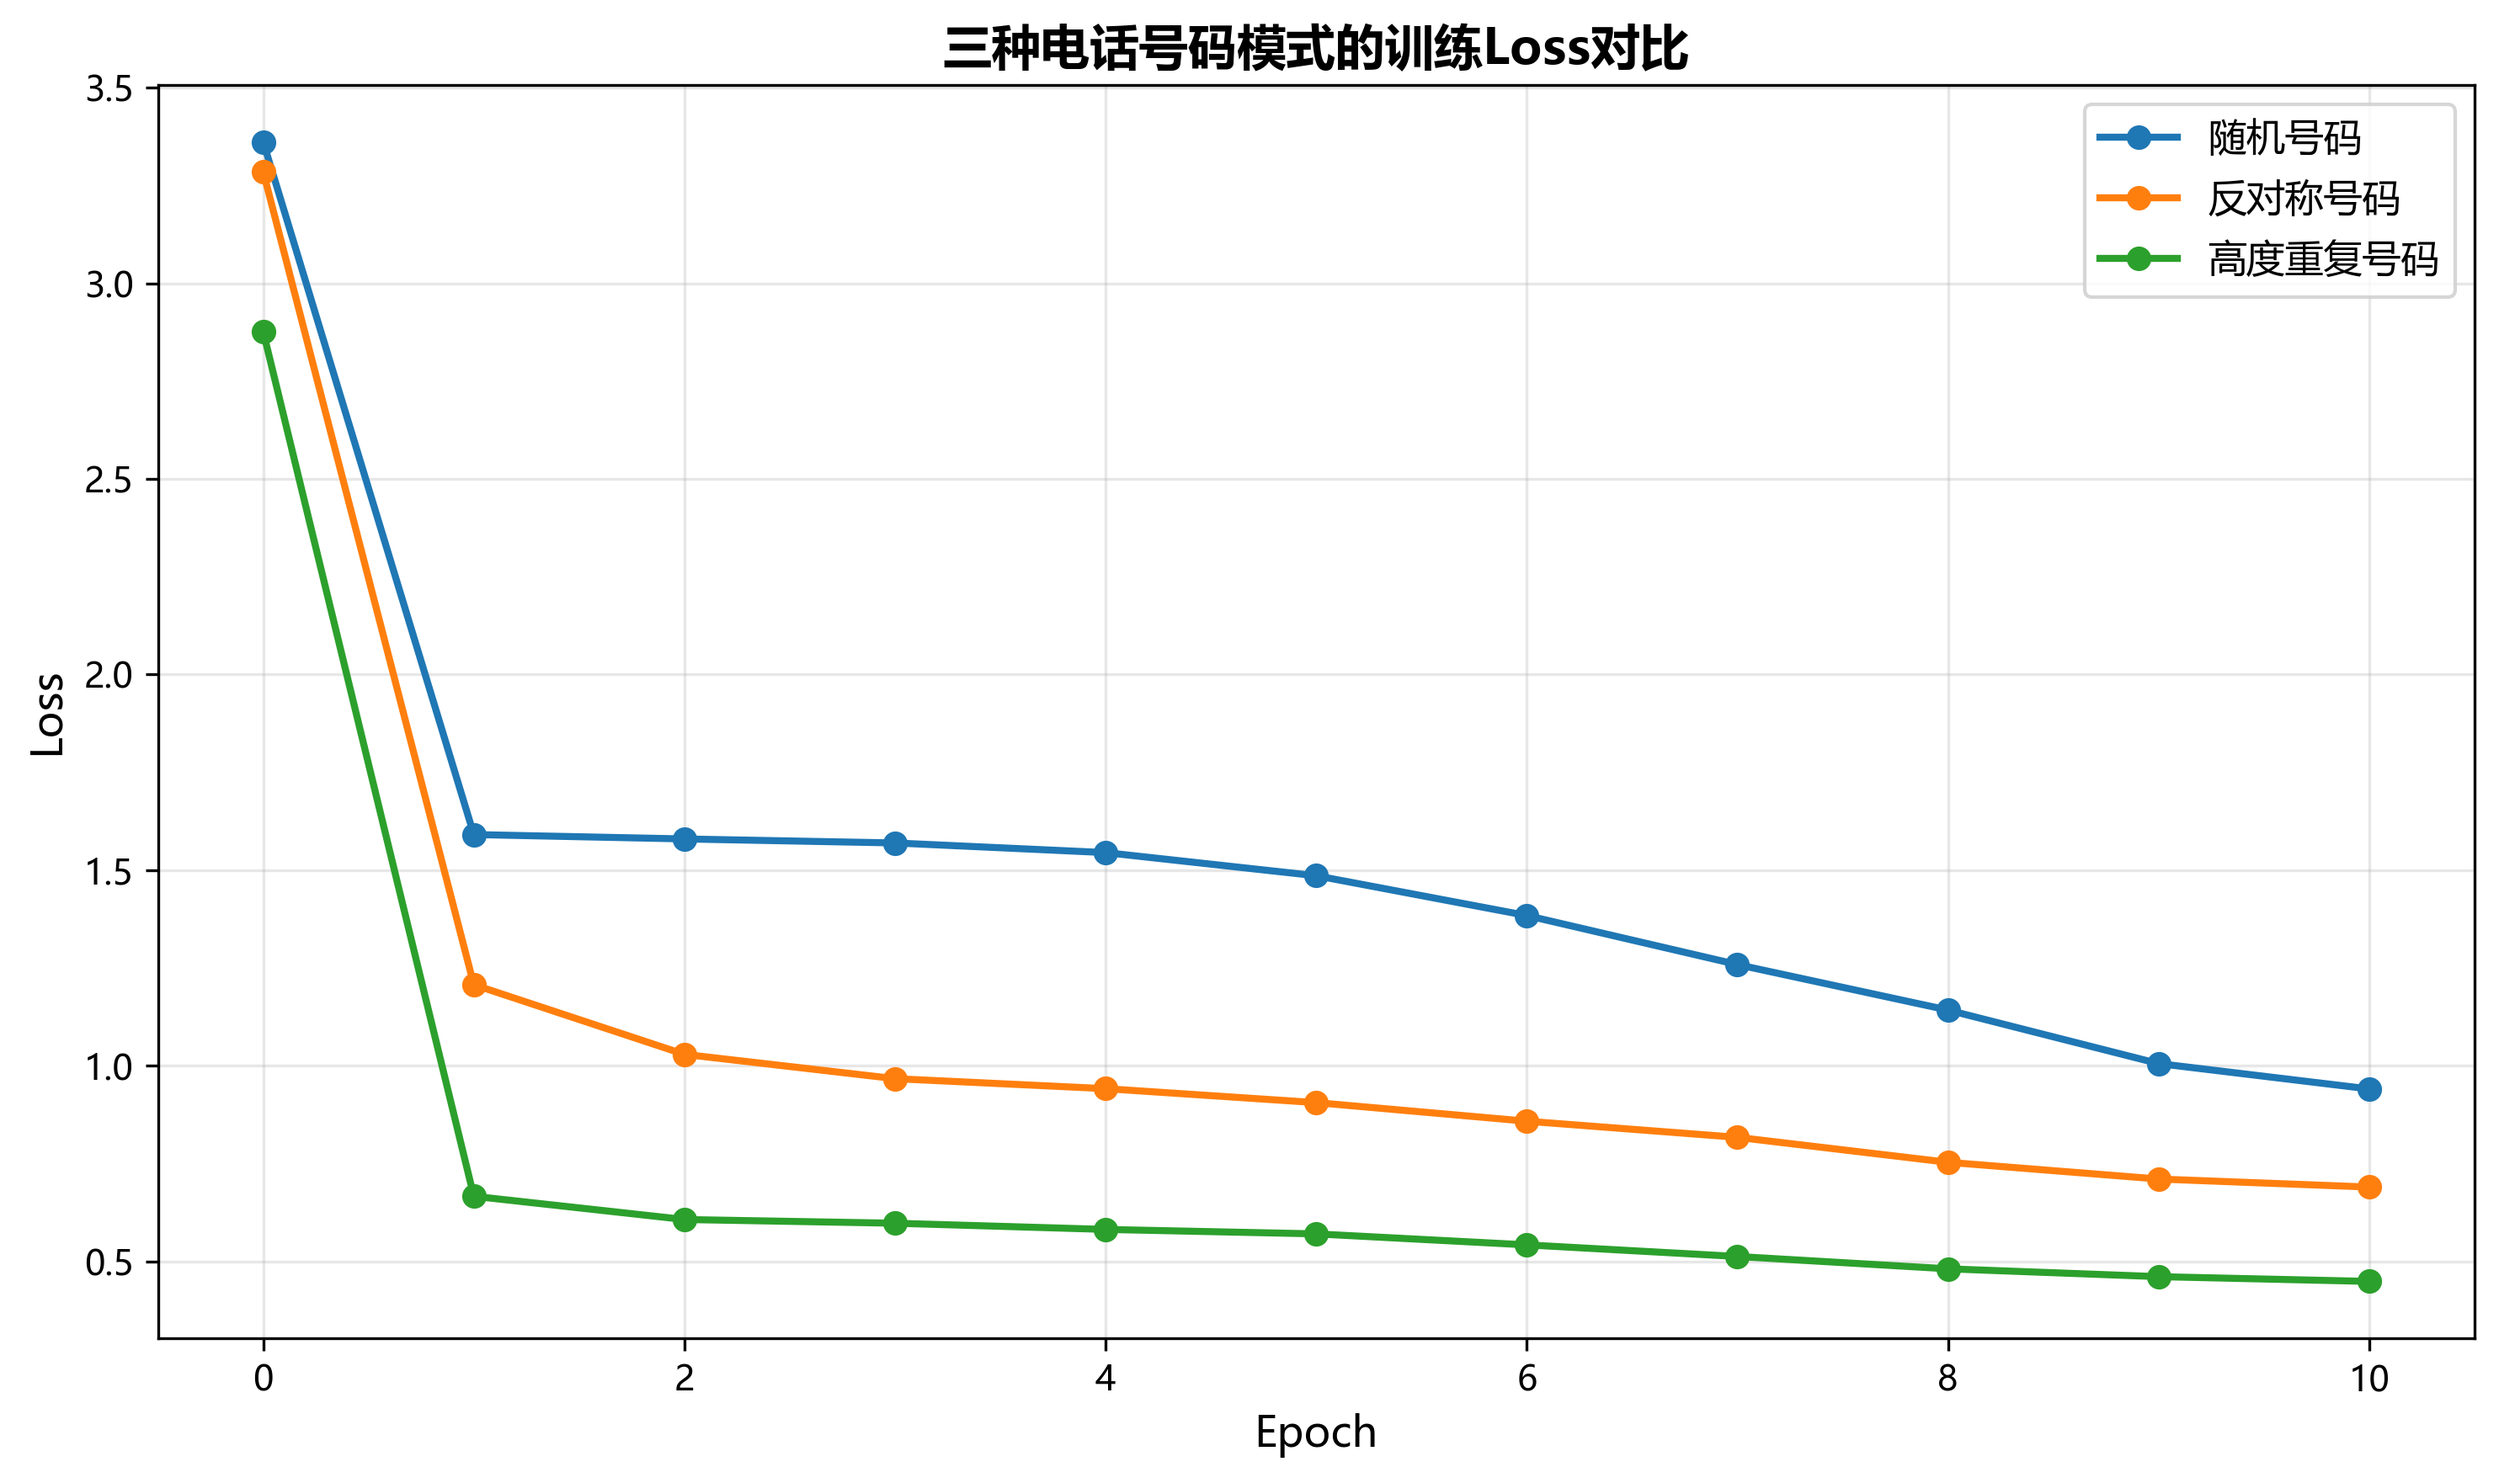
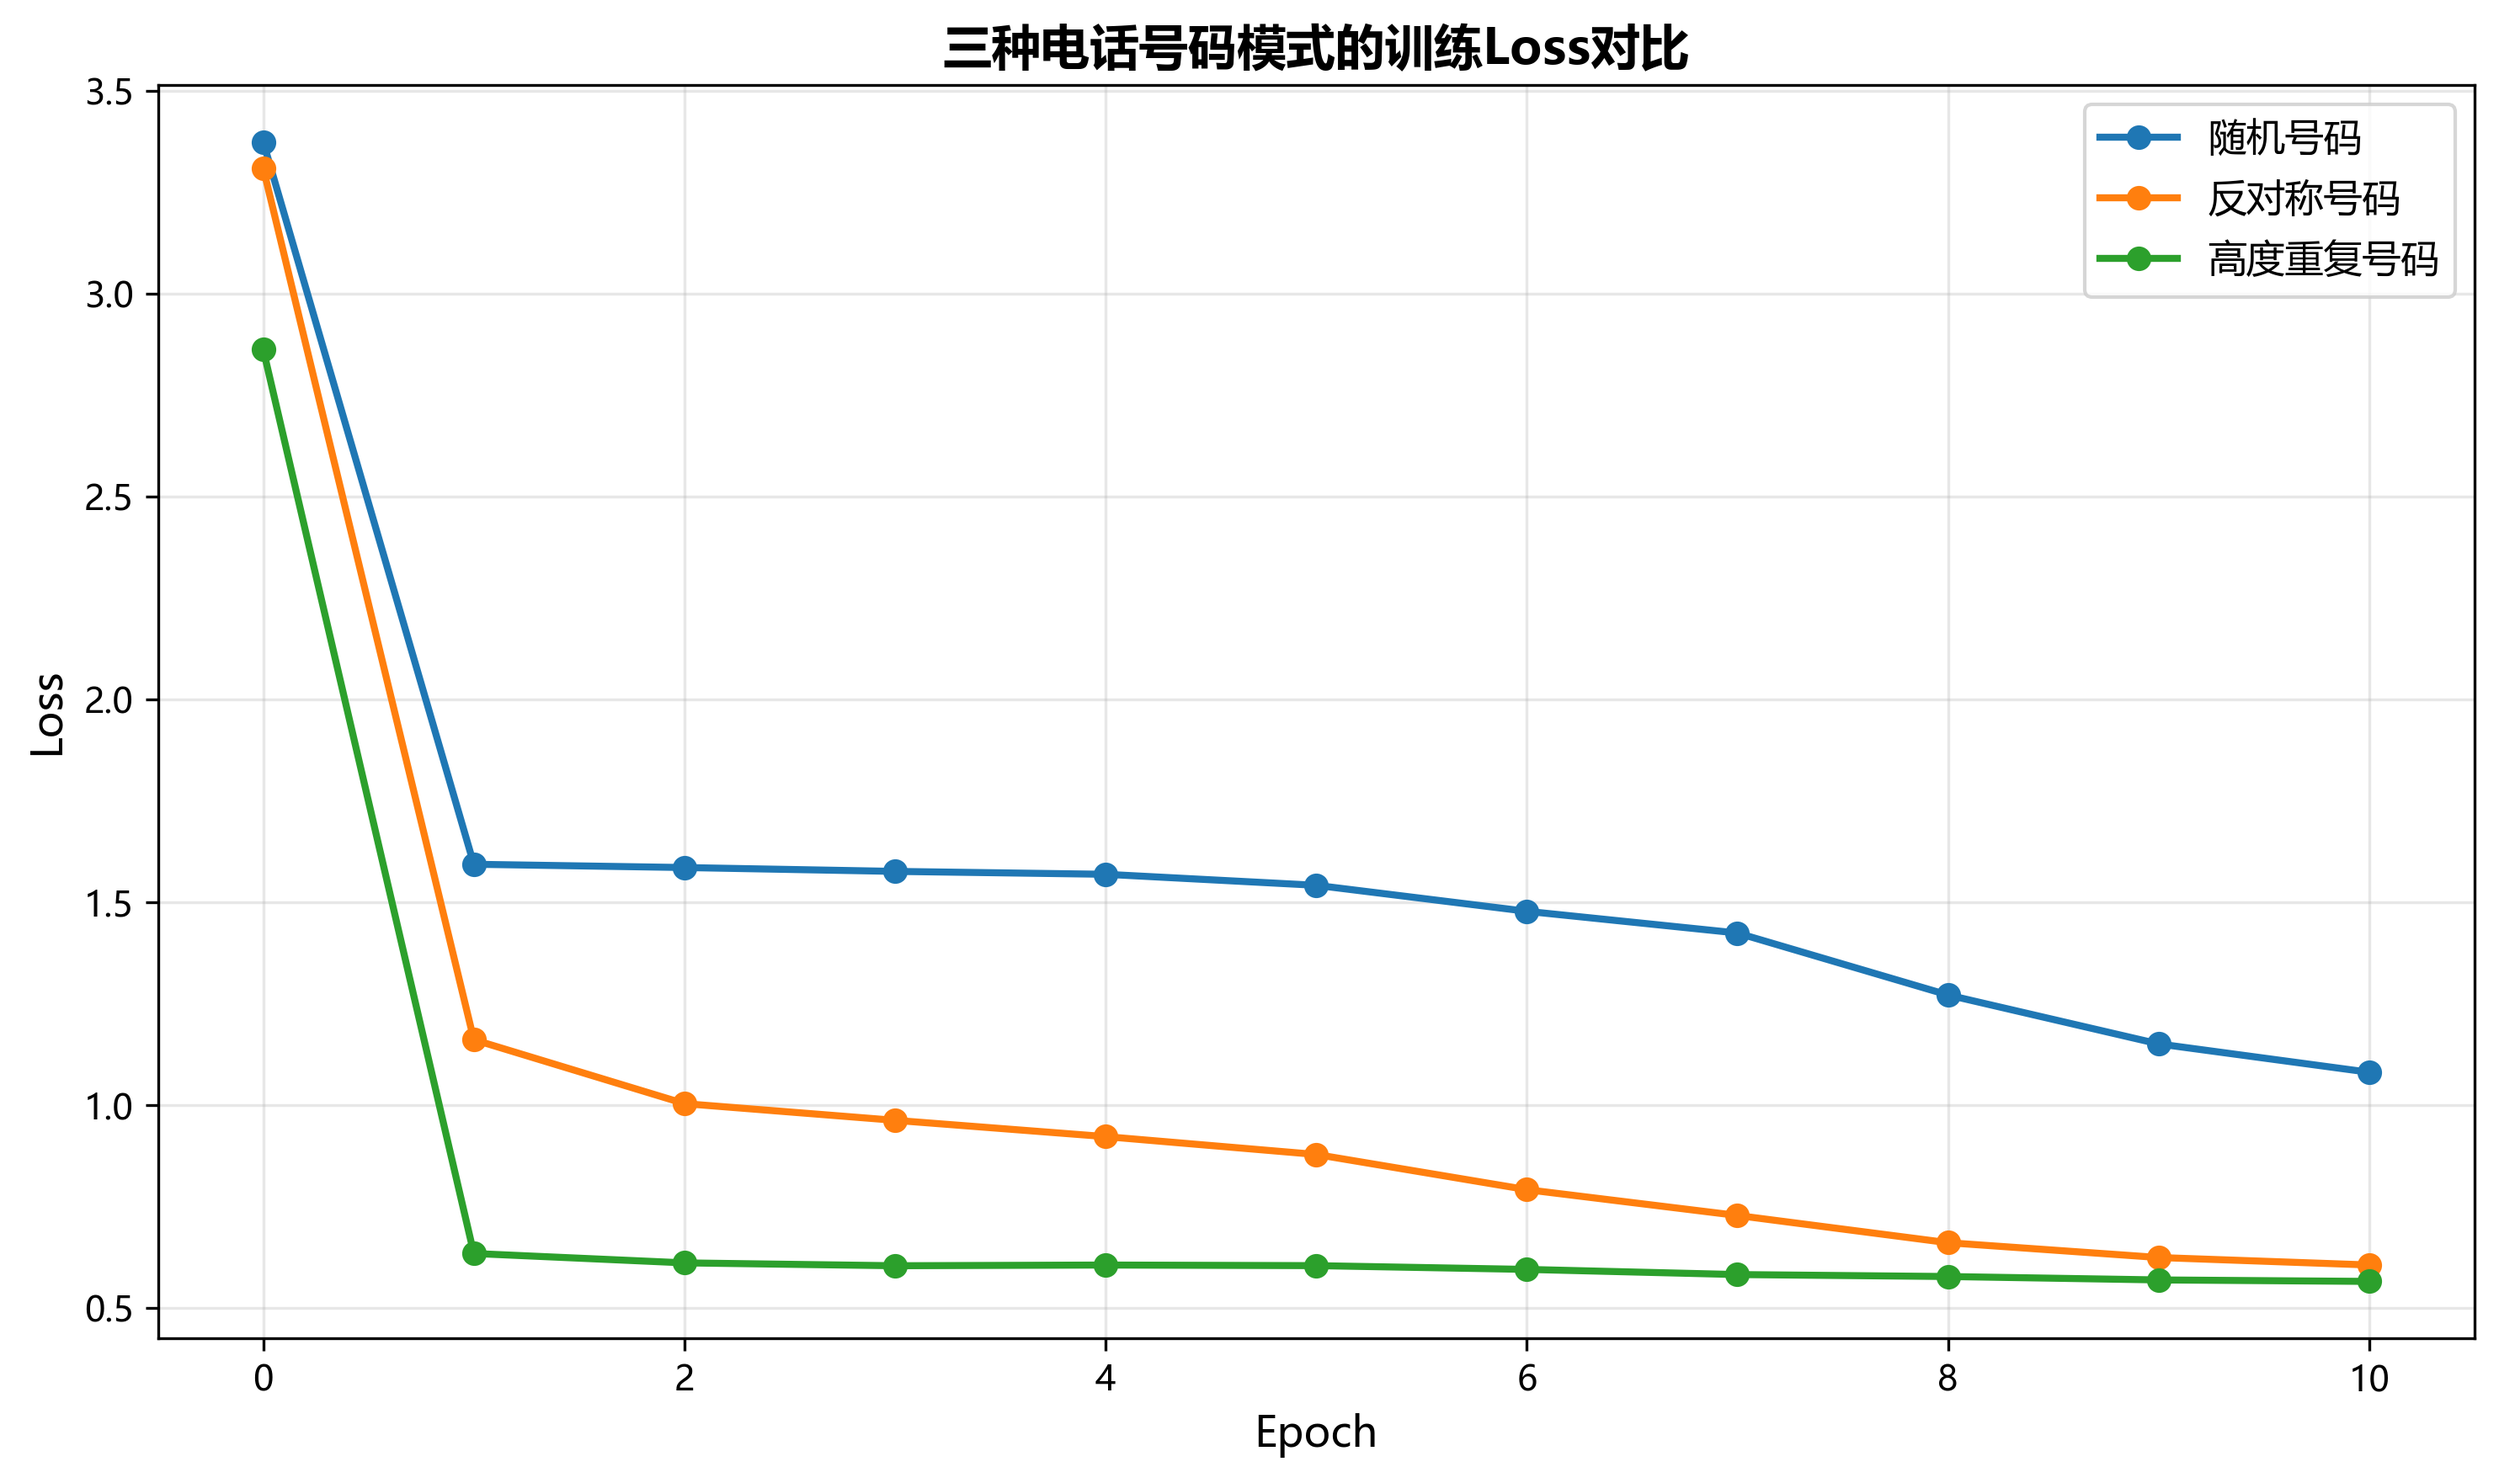
docs: refine readme to show result picture

diff --git a/src/trainer.py b/src/trainer.py
@@ -4,6 +4,7 @@
 
 import json
 import os
+import sys
 from pathlib import Path
 from typing import Dict, List
 import torch
@@ -17,6 +18,10 @@ from transformers import (
 )
 from peft import LoraConfig, get_peft_model, TaskType
 import numpy as np
+
+# 添加项目根目录到路径，以便导入config
+sys.path.insert(0, str(Path(__file__).parent.parent))
+import config
 
 
 class PhoneNumberDataset(Dataset):
@@ -107,13 +112,10 @@ class SSTrainer:
         # 增加rank以提升模型表达能力，扩展到FFN层以覆盖更多参数
         self.lora_config = LoraConfig(
             task_type=TaskType.CAUSAL_LM,
-            r=32,  # 从8增加到32，参数容量提升给16倍
-            lora_alpha=64,  # alpha = 2 * r，保持良好训练稳定性
-            lora_dropout=0.1,
-            target_modules=[
-                "q_proj", "k_proj", "v_proj", "o_proj",  # Attention层
-                "gate_proj", "up_proj", "down_proj"       # FFN层（新增）
-            ]
+            r=config.TRAINING_CONFIG["lora_r"],
+            lora_alpha=config.TRAINING_CONFIG["lora_alpha"],
+            lora_dropout=config.TRAINING_CONFIG["lora_dropout"],
+            target_modules=config.LORA_TARGET_MODULES
         )
         
         # 用于记录loss
@@ -167,7 +169,7 @@ class SSTrainer:
             per_device_train_batch_size=self.batch_size,
             gradient_accumulation_steps=self.gradient_accumulation_steps,
             learning_rate=self.lr,
-            fp16=True,
+            fp16=config.TRAINING_CONFIG["fp16"],
             logging_steps=10,
             save_strategy="epoch",
             save_total_limit=2,
@@ -273,38 +275,33 @@ class SSTrainer:
 
 def main():
     """主函数"""
-    # 配置路径
-    model_path = Path(__file__).parent.parent / "Qwen3-1___7B"  # 使用非FP8版本
-    dataset_dir = Path(__file__).parent.parent / "data"
-    models_dir = Path(__file__).parent.parent / "models"
-    results_dir = Path(__file__).parent.parent / "results"
-    
     # 检查模型路径
-    if not model_path.exists():
-        print(f"错误: 找不到模型路径 {model_path}")
+    if not config.MODEL_DIR.exists():
+        print(f"错误: 找不到模型路径 {config.MODEL_DIR}")
         return
     
     # 检查数据集
-    if not dataset_dir.exists():
-        print(f"错误: 找不到数据集目录 {dataset_dir}")
+    if not config.DATA_DIR.exists():
+        print(f"错误: 找不到数据集目录 {config.DATA_DIR}")
         print("请先运行 data_generator.py 生成数据集")
         return
     
     # 创建训练器
     trainer = SSTrainer(
-        model_path=str(model_path),
-        output_dir=str(models_dir),
-        lr=2e-4,
-        epochs=10,
-        batch_size=4,
-        gradient_accumulation_steps=4
+        model_path=str(config.MODEL_DIR),
+        output_dir=str(config.MODELS_DIR),
+        lr=config.TRAINING_CONFIG["learning_rate"],
+        epochs=config.TRAINING_CONFIG["num_epochs"],
+        batch_size=config.TRAINING_CONFIG["batch_size"],
+        gradient_accumulation_steps=config.TRAINING_CONFIG["gradient_accumulation_steps"],
+        max_length=config.TRAINING_CONFIG["max_length"]
     )
     
     # 训练所有组
-    trainer.train_all_groups(str(dataset_dir))
+    trainer.train_all_groups(str(config.DATA_DIR))
     
     # 保存loss
-    trainer.save_losses(str(results_dir / "training_losses.json"))
+    trainer.save_losses(str(config.RESULTS_DIR / "training_losses.json"))
 
 
 if __name__ == "__main__":

diff --git a/run_experiment.py b/run_experiment.py
@@ -8,6 +8,7 @@ from pathlib import Path
 # 添加src目录到路径
 sys.path.insert(0, str(Path(__file__).parent / "src"))
 
+import config
 from src.data_generator import PhoneNumberGenerator
 from src.trainer import SSTrainer
 from src.visualizer import LossVisualizer
@@ -19,43 +20,37 @@ def main():
     print("电话号码记忆实验")
     print("=" * 60)
     
-    # 获取基础路径
-    base_dir = Path(__file__).parent
-    model_path = base_dir / "Qwen3-1___7B"  # 使用非FP8版本
-    data_dir = base_dir / "data"
-    models_dir = base_dir / "models"
-    results_dir = base_dir / "results"
-    
     # 步骤1: 生成数据集
     print("\n步骤1: 生成数据集...")
-    generator = PhoneNumberGenerator(num_samples=100)
+    generator = PhoneNumberGenerator(num_samples=config.NUM_SAMPLES)
     datasets = generator.generate_all_datasets()
-    generator.save_datasets(datasets, data_dir)
+    generator.save_datasets(datasets, config.DATA_DIR)
     
     # 步骤2: 训练模型
     print("\n步骤2: 训练模型...")
     print("警告: 训练过程可能需要较长时间，请耐心等待...")
     
     # 检查模型路径
-    if not model_path.exists():
-        print(f"错误: 找不到模型路径 {model_path}")
+    if not config.MODEL_DIR.exists():
+        print(f"错误: 找不到模型路径 {config.MODEL_DIR}")
         return
     
     trainer = SSTrainer(
-        model_path=str(model_path),
-        output_dir=str(models_dir),
-        lr=2e-4,
-        epochs=10,
-        batch_size=4,
-        gradient_accumulation_steps=4
+        model_path=str(config.MODEL_DIR),
+        output_dir=str(config.MODELS_DIR),
+        lr=config.TRAINING_CONFIG["learning_rate"],
+        epochs=config.TRAINING_CONFIG["num_epochs"],
+        batch_size=config.TRAINING_CONFIG["batch_size"],
+        gradient_accumulation_steps=config.TRAINING_CONFIG["gradient_accumulation_steps"],
+        max_length=config.TRAINING_CONFIG["max_length"]
     )
     
-    trainer.train_all_groups(str(data_dir))
-    trainer.save_losses(str(results_dir / "training_losses.json"))
+    trainer.train_all_groups(str(config.DATA_DIR))
+    trainer.save_losses(str(config.RESULTS_DIR / "training_losses.json"))
     
     # 步骤3: 可视化结果
     print("\n步骤3: 可视化结果...")
-    visualizer = LossVisualizer(str(results_dir / "training_losses.json"))
+    visualizer = LossVisualizer(str(config.RESULTS_DIR / "training_losses.json"))
     visualizer.print_statistics()
     visualizer.plot_loss_curves()
     

diff --git a/src/visualizer.py b/src/visualizer.py
@@ -3,11 +3,16 @@
 """
 
 import json
+import sys
 from pathlib import Path
 import matplotlib.pyplot as plt
 import matplotlib.font_manager as fm
 import numpy as np
 import platform
+
+# 添加项目根目录到路径，以便导入config
+sys.path.insert(0, str(Path(__file__).parent.parent))
+import config
 
 # 设置中文字体
 def setup_chinese_font():
@@ -72,17 +77,11 @@ class LossVisualizer:
         if self.data is None:
             self.load_data()
         
-        plt.figure(figsize=(10, 6))
+        plt.figure(figsize=config.PLOT_CONFIG["figsize"])
         
-        # 定义组名和对应的中文标签
-        group_labels = {
-            'GroupA': '随机号码',
-            'GroupB': '反对称号码',
-            'GroupC': '高度重复号码'
-        }
-        
-        # 定义颜色
-        colors = ['#1f77b4', '#ff7f0e', '#2ca02c']
+        # 使用配置中的组标签和颜色
+        group_labels = config.GROUP_LABELS
+        colors = config.PLOT_CONFIG["colors"]
         
         # 绘制每个组的loss曲线
         for idx, group_data in enumerate(self.data):
@@ -117,7 +116,7 @@ class LossVisualizer:
         output_path = Path(output_path)
         output_path.parent.mkdir(parents=True, exist_ok=True)
         
-        plt.savefig(output_path, dpi=300, bbox_inches='tight')
+        plt.savefig(output_path, dpi=config.PLOT_CONFIG["dpi"], bbox_inches='tight')
         print(f"Loss曲线已保存到: {output_path}")
         
         # 关闭图形，避免阻塞程序
@@ -151,8 +150,7 @@ class LossVisualizer:
 
 def main():
     """主函数"""
-    results_dir = Path(__file__).parent.parent / "results"
-    loss_file = results_dir / "training_losses.json"
+    loss_file = config.RESULTS_DIR / "training_losses.json"
     
     if not loss_file.exists():
         print(f"错误: 找不到loss文件 {loss_file}")

diff --git a/src/data_generator.py b/src/data_generator.py
@@ -4,8 +4,13 @@
 
 import random
 import json
+import sys
 from pathlib import Path
 from typing import List, Dict
+
+# 添加项目根目录到路径，以便导入config
+sys.path.insert(0, str(Path(__file__).parent.parent))
+import config
 
 
 class PhoneNumberGenerator:
@@ -129,12 +134,11 @@ class PhoneNumberGenerator:
 
 def main():
     """主函数"""
-    generator = PhoneNumberGenerator(num_samples=100)
+    generator = PhoneNumberGenerator(num_samples=config.NUM_SAMPLES)
     datasets = generator.generate_all_datasets()
     
     # 保存到data目录
-    output_dir = Path(__file__).parent.parent / "data"
-    generator.save_datasets(datasets, output_dir)
+    generator.save_datasets(datasets, config.DATA_DIR)
     
     # 打印统计信息
     print("\n数据集统计:")

diff --git a/config.py b/config.py
@@ -16,8 +16,8 @@ NUM_SAMPLES = 100  # 每个组生成的电话号码数量
 
 # 训练配置
 TRAINING_CONFIG = {
-    "learning_rate": 2e-4,
-    "num_epochs": 10,
+    "learning_rate": 1e-4,
+    "num_epochs": 30,
     "batch_size": 4,
     "gradient_accumulation_steps": 4,
     "max_length": 128,

diff --git a/README.md b/README.md
@@ -123,6 +123,17 @@ Which_Phone_Number_Does_LLM_mem_Better/
 
 通过分析loss曲线，可以观察哪种模式的电话号码更容易被模型学习和记忆。
 
+## 实验结果
+
+训练完成后，将生成loss对比曲线图，展示三种电话号码模式的学习效果：
+
+![训练Loss对比曲线](results/loss_curves.png)
+
+从图中可以观察到：
+- **高度重复号码（GroupC）**：loss最低，学习效果最好，说明模型更容易记忆有规律的数据
+- **反对称号码（GroupB）**：loss居中，学习效果中等
+- **随机号码（GroupA）**：loss最高，学习效果最差，说明模型对无规律数据的记忆能力较弱
+
 ## 注意事项
 
 1. **模型下载**：需要手动下载Qwen3-1.7B模型
